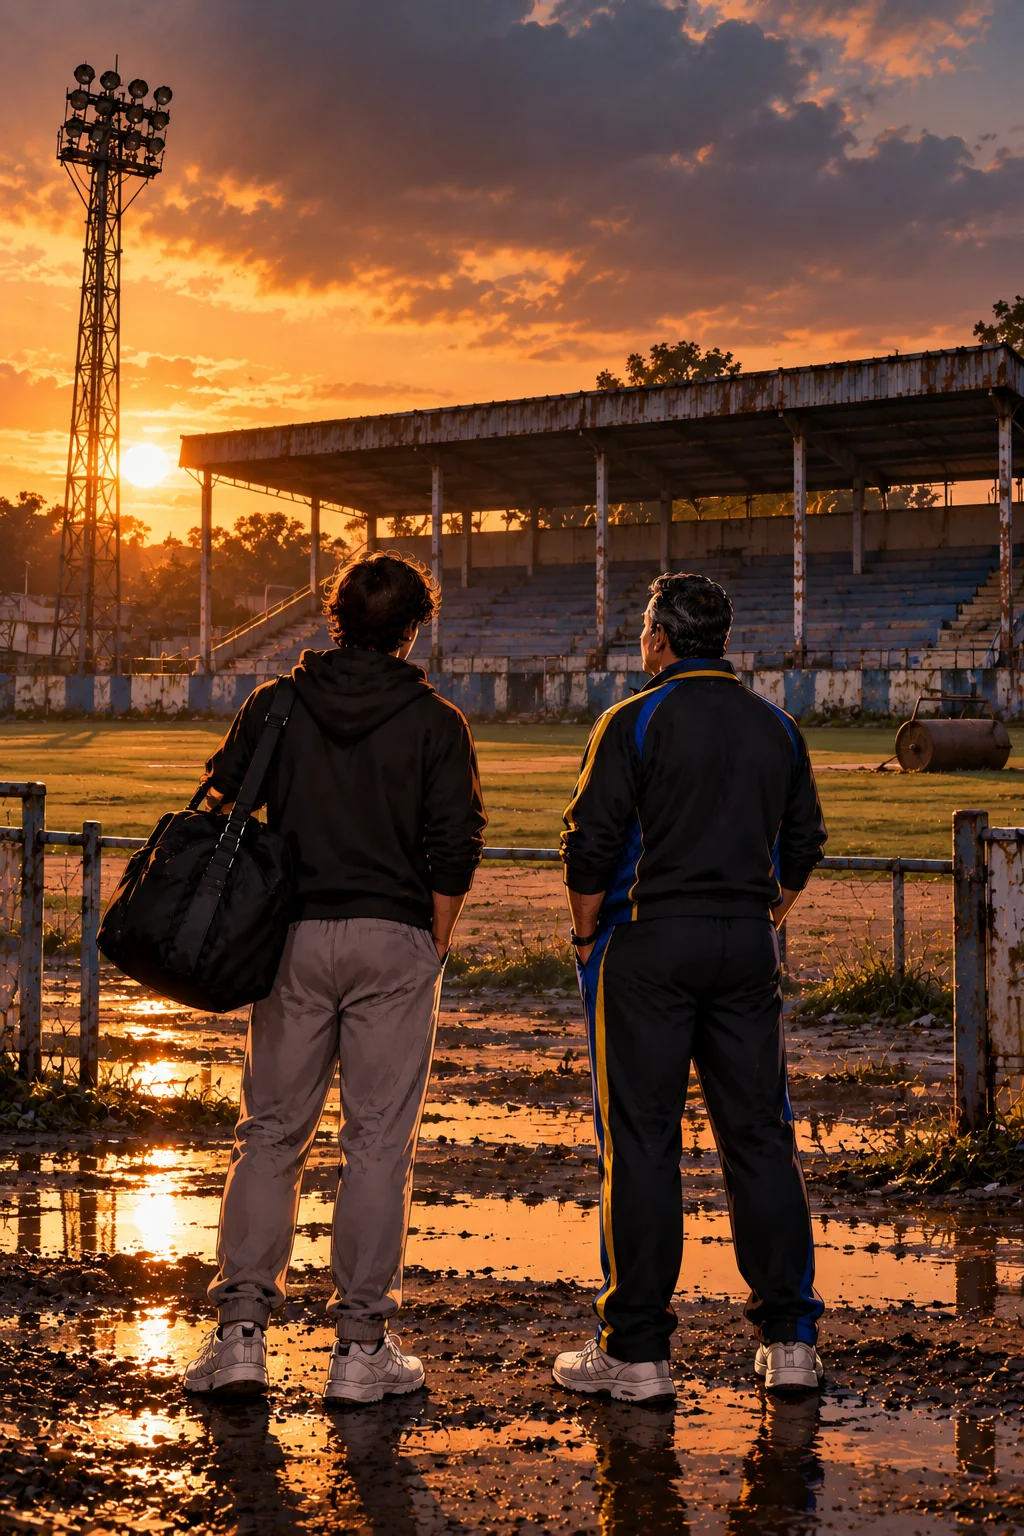
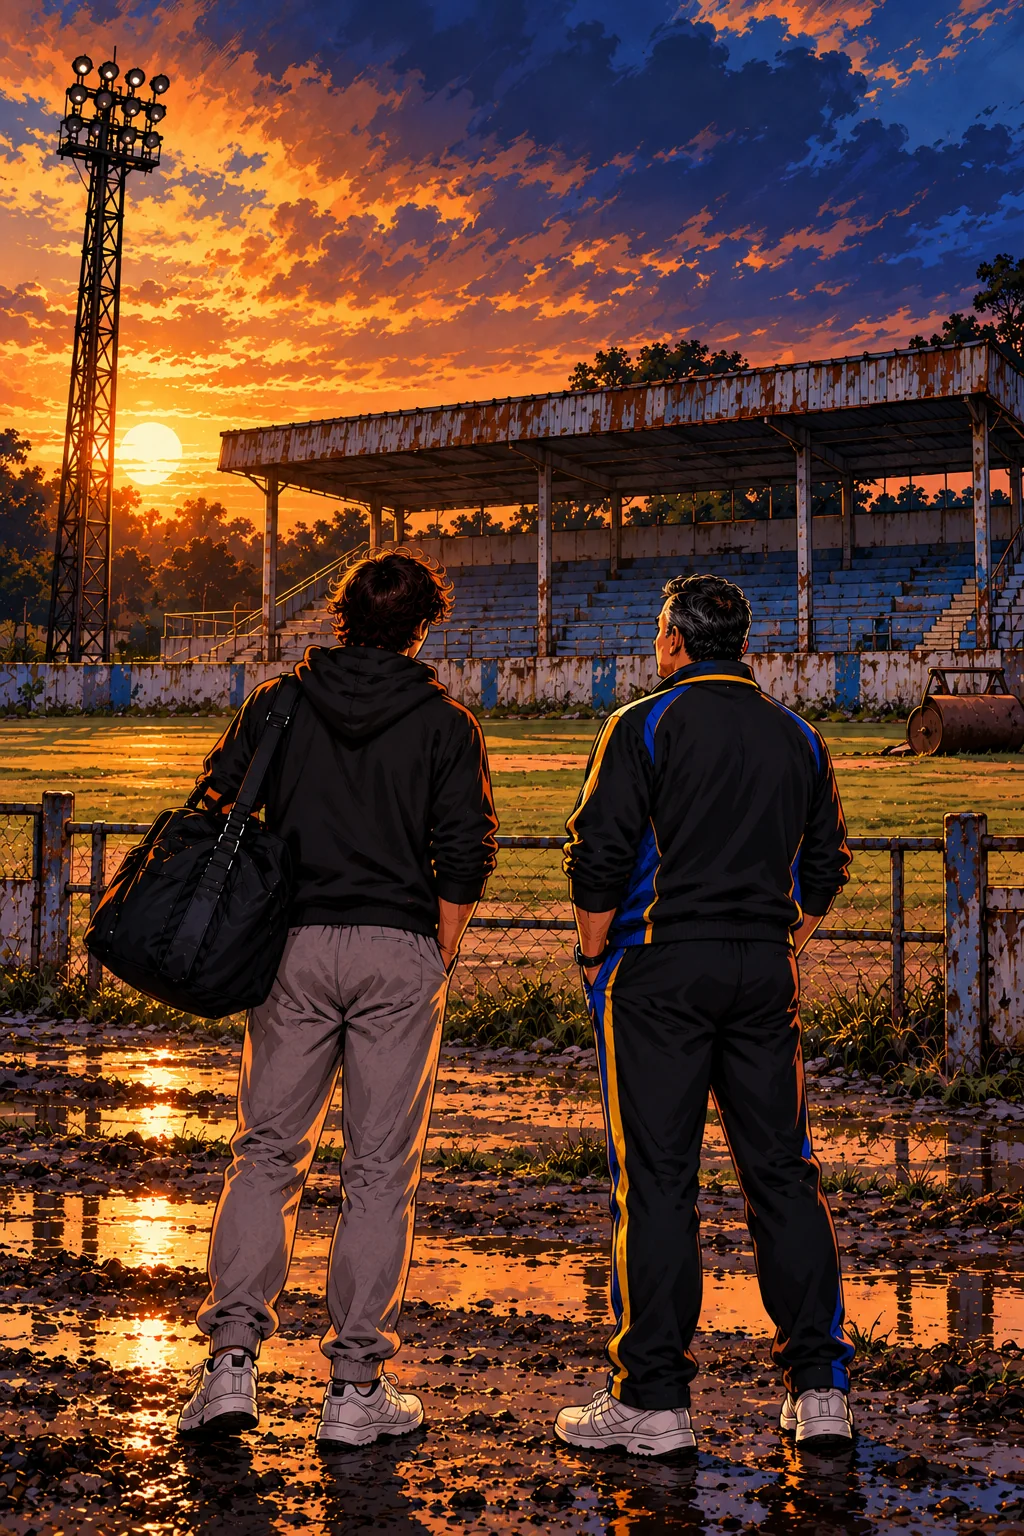
Story: the last picture is the sunrise ground in the final style; the man in the suit is Vikram Rane
Claude-Session: https://claude.ai/code/session_01NK7tbrKg5PdA6fuyEUPXLd

diff --git a/js/comic.js b/js/comic.js
@@ -40,7 +40,7 @@ export const NIGHT = [
   ] },
 ];
 
-// the next morning: the bag packed, the tunnel out of the Thunderdome, the bus stop, Uncle Dev, and the old ground (the man in the suit is the owner; his name is not said)
+// the next morning: the bag packed, the tunnel out of the Thunderdome, the bus stop, Uncle Dev, and the old ground (the man in the suit is the owner, Vikram Rane; his name is not said)
 const say = (text, at, mouth) => ({ say: text, at: { left: at[0], width: at[1], bottom: at[2] }, mouth });
 const fanBeat = h => fan(h, 'Walk away from cricket, Kabir. For everyone\'s sake.');
 export const EXIT = [
@@ -53,7 +53,7 @@ export const EXIT = [
   { img: 'img/story/exit-7.webp', beats: [say('They chased you out, beta.', [0.3, 0.5, 0.15], [0.76, 0.22])] },
   { img: 'img/story/exit-8.webp', beats: [say("Come on. Let's chase them back.", [0.3, 0.5, 0.17], [0.76, 0.27])] },
   { img: 'img/story/exit-9.webp', beats: [say('With what, Dev? A bag and a bat?', [0.04, 0.5, 0.24], [0.25, 0.35]), say('And a ground. Wait until you see it.', [0.5, 0.46, 0.17], [0.66, 0.25])] },
-  { img: 'img/story/exit-10.webp', beats: [say('Not much to look at, is it?', [0.5, 0.46, 0.3], [0.66, 0.39]), say('Then I will build my own club. And one day I will beat them.', [0.04, 0.55, 0.3], [0.38, 0.4])] },
+  { img: 'img/story/exit-10.webp', beats: [say('Not much to look at, is it?', [0.5, 0.46, 0.3], [0.7, 0.4]), say('Then I will build my own club. And one day I will beat them.', [0.04, 0.55, 0.3], [0.38, 0.41])] },
 ];
 
 let box = null;
